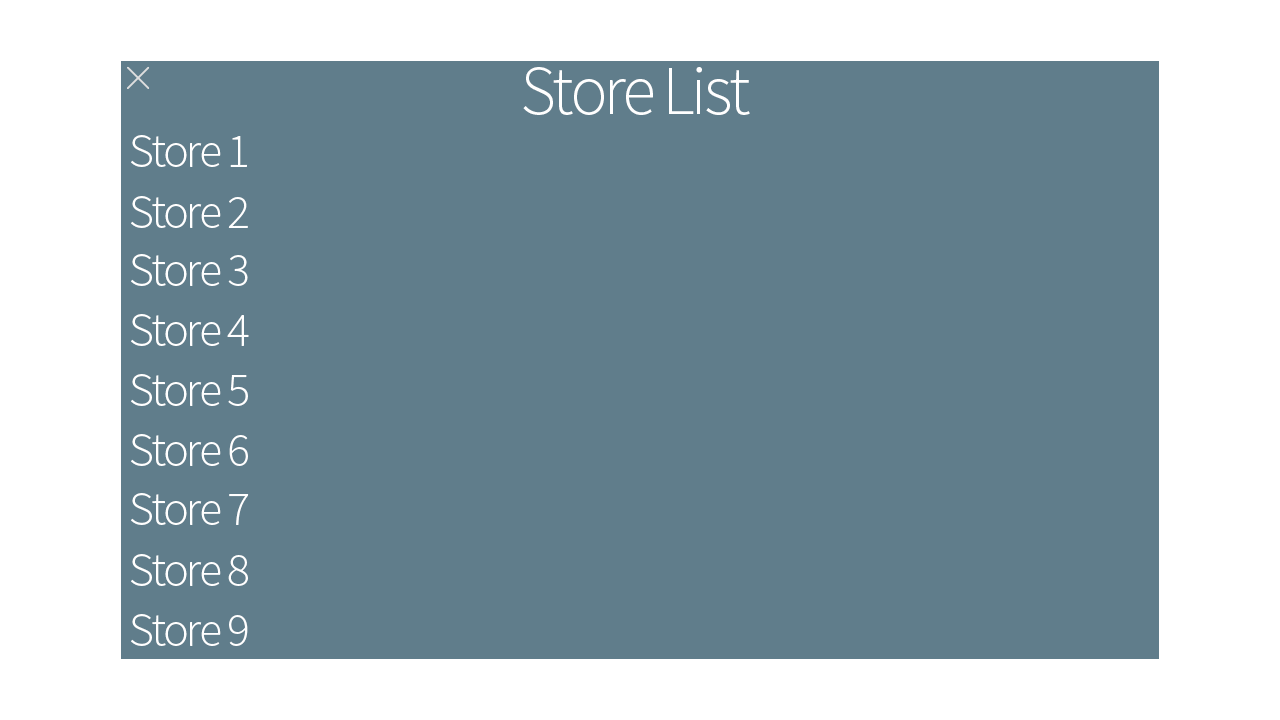
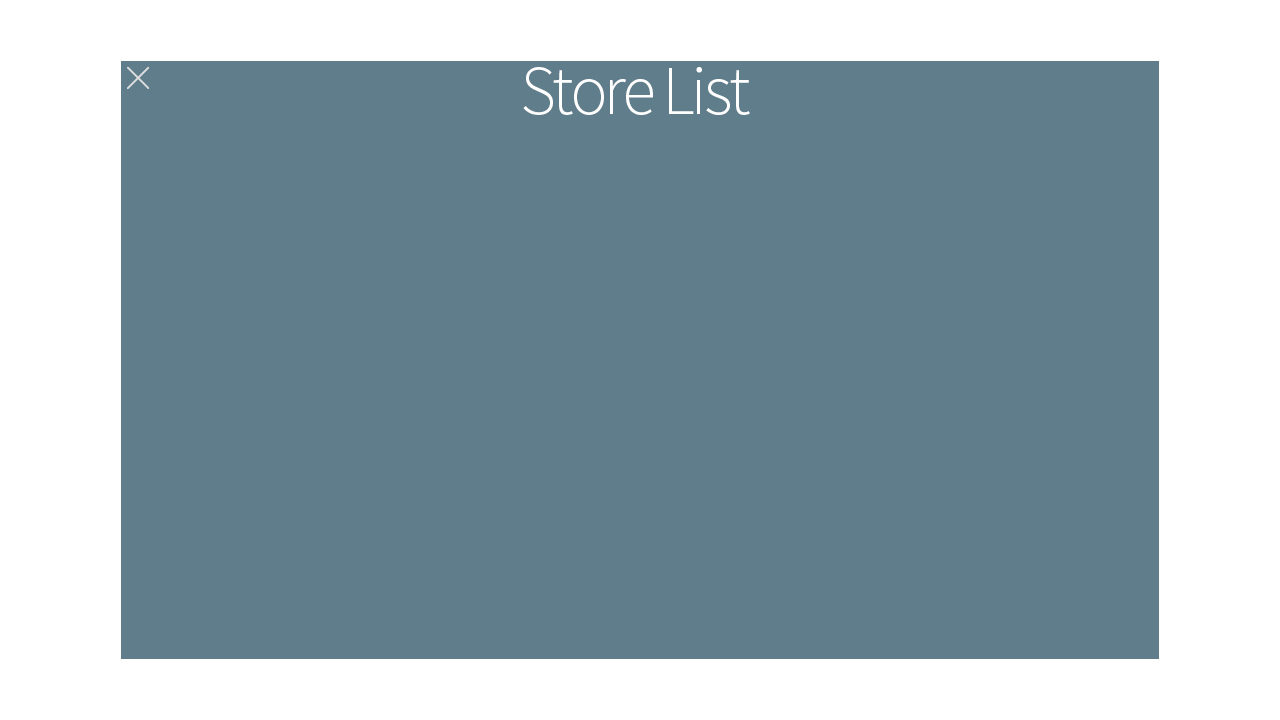
PURCHAING STORES!!!

diff --git a/MallKing.java b/MallKing.java
@@ -22,12 +22,14 @@ public class MallKing extends JPanel
   private static Boolean storeMenu=false;
   private static Boolean pickStore=false;
   private static Boolean confirm=false;
+  private static Boolean overpriced=false;
   private static int cash;
   private static int year;
   private static int month;
   private static int day;
   private static int intro=59;
   private static int menu=0;
+  private static int choice=0;
   private static double profit;
   private static double balance;
   private static double expenses;
@@ -36,6 +38,7 @@ public class MallKing extends JPanel
   public static int clickX;
   public static int clickY;
   int[][] clickGrid = new int[23][13];
+  Store[] choicelist = new Store[9];
   public static int daylength;
   public static int daymod;
   
@@ -97,7 +100,7 @@ public class MallKing extends JPanel
         {
           settings=!settings;
         }
-        if(clickGrid[clickX][clickY]<=133&&changeStore==false)
+        else if(clickGrid[clickX][clickY]<=133&&changeStore==false)
         {
           if (storeMenu==true&&menu==clickGrid[clickX][clickY])
           {
@@ -110,38 +113,67 @@ public class MallKing extends JPanel
             menu=clickGrid[clickX][clickY];
           }  
         }
-        if(clickGrid[clickX][clickY]==811&&storeMenu==true&&changeStore==false)
+        else if(clickGrid[clickX][clickY]==811&&storeMenu==true&&changeStore==false)
         {
           storeMenu=false;
           menu=0;
         }
-        if(clickGrid[clickX][clickY]==813&&storeMenu==true)
+        else if(clickGrid[clickX][clickY]==813&&storeMenu==true&&changeStore==false&&confirm==false)
         {
-          changeStore=true;
-          settings=false;
           savetemp();
           loadgrid("gridPicker.txt");
+          choices();
+          changeStore=true;
+          settings=false;
+          //load choices
         }
-        if(changeStore==true&&clickGrid[clickX][clickY]==817)
+        else if(changeStore==true&&clickGrid[clickX][clickY]==817)
         {
           loadgrid("gridTemp.txt");
           changeStore=false;
         }
-        if(clickGrid[clickX][clickY]>900&&clickGrid[clickX][clickY]<999)
+        else if(clickGrid[clickX][clickY]>900&&clickGrid[clickX][clickY]<999)
         {
-          confirm=true;
-          loadgrid("gridConfirm.txt");
+          choice=clickGrid[clickX][clickY]-901;
+          if(choicelist[choice].cost>cash)
+          {
+            overpriced=true;
+            loadgrid("gridOverpriced.txt");
+          }
+          else
+          {
+            loadgrid("gridConfirm.txt");
+            confirm=true;         
+          }
         }
-        if(clickGrid[clickX][clickY]==1001)
+        else if(clickGrid[clickX][clickY]==1001)
         {
           loadgrid("gridTemp.txt");
           confirm=false;
-          changeStore=false; 
+          changeStore=false;
+          storeMenu=false;
+          for (int a=1;a<23;a++)
+          {
+            for (int b=1;b<13;b++)
+            {
+              if(clickGrid[a][b]==menu)
+              {
+                clickGrid[a][b]=choicelist[choice].counter;
+              }
+            }
+          }  
+          choicelist[choice].placed=true;
+          cash-=choicelist[choice].cost;
         }
-        if(clickGrid[clickX][clickY]==1002)
+        else if(clickGrid[clickX][clickY]==1002)
         {
           loadgrid("gridPicker.txt");
           confirm=false;
+        }
+        else if(clickGrid[clickX][clickY]==1100)
+        {
+          loadgrid("gridPicker.txt");
+          overpriced=false;
         }
       }       
     }); 
@@ -155,7 +187,7 @@ public class MallKing extends JPanel
         int stars = Integer.parseInt(br.readLine());
         int profitability = Integer.parseInt(br.readLine());
         int cost = Integer.parseInt(br.readLine());
-        store[i]=(new Store(name, size, stars, profitability, cost));
+        store[i]=(new Store(name, size, stars, profitability, cost,i));
       }
       br.close(); 
     }
@@ -176,6 +208,20 @@ public class MallKing extends JPanel
     storeMenu=false;
     paused=true;
     changeStore=false;
+  }
+  
+  public void choices()
+  {
+    //store[9].placed=true;
+    int counter=0;
+    for(int i=0;i<48; i++)
+    {
+      if(store[i].placed==false&&counter<9)
+      {
+        choicelist[counter]=store[i];
+        counter++;
+      }
+    }      
   }
   
   public void loading()
@@ -351,7 +397,6 @@ public class MallKing extends JPanel
         g.setColor (fontcolor); 
         try {
           Font font = Font.createFont(Font.TRUETYPE_FONT, new FileInputStream("A.ttf"));
-          
           font = font.deriveFont(36F);
           g.setFont(font);
         }
@@ -359,10 +404,12 @@ public class MallKing extends JPanel
         if (menu<100)
         {
           g.drawString(store[menu].name,5,160);
+          g.drawString("Replace Store",62,344);
         }
         else
         {
           g.drawString(String.valueOf(menu),5,160);
+          g.drawString("Add Store",62,344);
         }
       }   
       if (changeStore==true&&storeMenu==true)
@@ -371,7 +418,13 @@ public class MallKing extends JPanel
         {
           img = ImageIO.read(new File("ChangeStore.png"));
           g.drawImage(img, 0, 0, null);
-        } catch (IOException e){}
+          for(int i=0;i<9; i++)
+          {
+            g.drawString(choicelist[i].name,128, i*60+166);
+            g.drawString(String.valueOf(choicelist[i].cost),400, i*60+166);
+          }
+        }      
+        catch (IOException e){}
       }  
       if (daymod!=15)
       { 
@@ -405,6 +458,24 @@ public class MallKing extends JPanel
         } catch (IOException e){}
         g.drawImage(img, 0, 0, null);
       }
+      if (overpriced==true)
+      { 
+        try
+        {
+          img = ImageIO.read(new File("Overpriced.png"));
+        } catch (IOException e){}
+        g.drawImage(img, 0, 0, null);
+        try
+        {
+          Font font = Font.createFont(Font.TRUETYPE_FONT, new FileInputStream("A.ttf"));
+          font = font.deriveFont(48F);
+          g.setFont(font);
+          Color fontcolor = new Color(96,125,139);
+          g.setColor (fontcolor);
+        }
+        catch (IOException e){} catch (FontFormatException e){}
+        g.drawString(String.valueOf(choicelist[choice].name),480,400);
+      }
       if (confirm==true)
       { 
         try
@@ -415,16 +486,25 @@ public class MallKing extends JPanel
         try
         {
           Font font = Font.createFont(Font.TRUETYPE_FONT, new FileInputStream("A.ttf"));
-          
           font = font.deriveFont(48F);
           g.setFont(font);
         }
         catch (IOException e){} catch (FontFormatException e){}
         Color fontcolor = new Color(96,125,139);
         g.setColor (fontcolor);
-        g.drawString(String.valueOf(menu)+"?",480,405);
+        g.drawString(String.valueOf(choicelist[choice].name),480,400);
       }
     }
+  }
+  
+  public void reset()
+  {
+    changeStore=false;
+    settings=false;
+    storeMenu=false;
+    pickStore=false;
+    confirm=false;
+    isMuted=false;
   }
   
   public static void main(String[]args) throws InterruptedException
@@ -444,12 +524,7 @@ public class MallKing extends JPanel
           loadGame=false;
           playGame=true;   
           newGame=false;
-          changeStore=false;
-          settings=false;
-          storeMenu=false;
-          pickStore=false;
-          confirm=false;
-          isMuted=false;
+          m.reset();
         }
         else if(playGame)
         {
@@ -458,12 +533,7 @@ public class MallKing extends JPanel
         else if(loadGame)
         {
           m.loading(); 
-          changeStore=false;
-          settings=false;
-          storeMenu=false;
-          pickStore=false;
-          confirm=false;
-          isMuted=false;
+          m.reset();
         }
         m.repaint(); 
         Thread.sleep(10); 

diff --git a/Store.java b/Store.java
@@ -3,19 +3,22 @@ public class Store
   private int size;
   private int stars;
   private int profitability;
-  private int cost;
+  public int cost;
   public String name;
+  public boolean placed;
+  public int counter;
   public Store()
   {
   }
-  public Store(String Name, int size, int stars, int profitability, int cost)
+  public Store(String Name, int size, int stars, int profitability, int cost,int counter)
   {
     this.size=size;
     this.stars=stars;
     this.profitability=profitability;
     this.cost=cost;
     this.name=Name;
-    
+    this.placed=false;
+    this.counter=counter;
   }
   public double calculateRevenue()
   {
